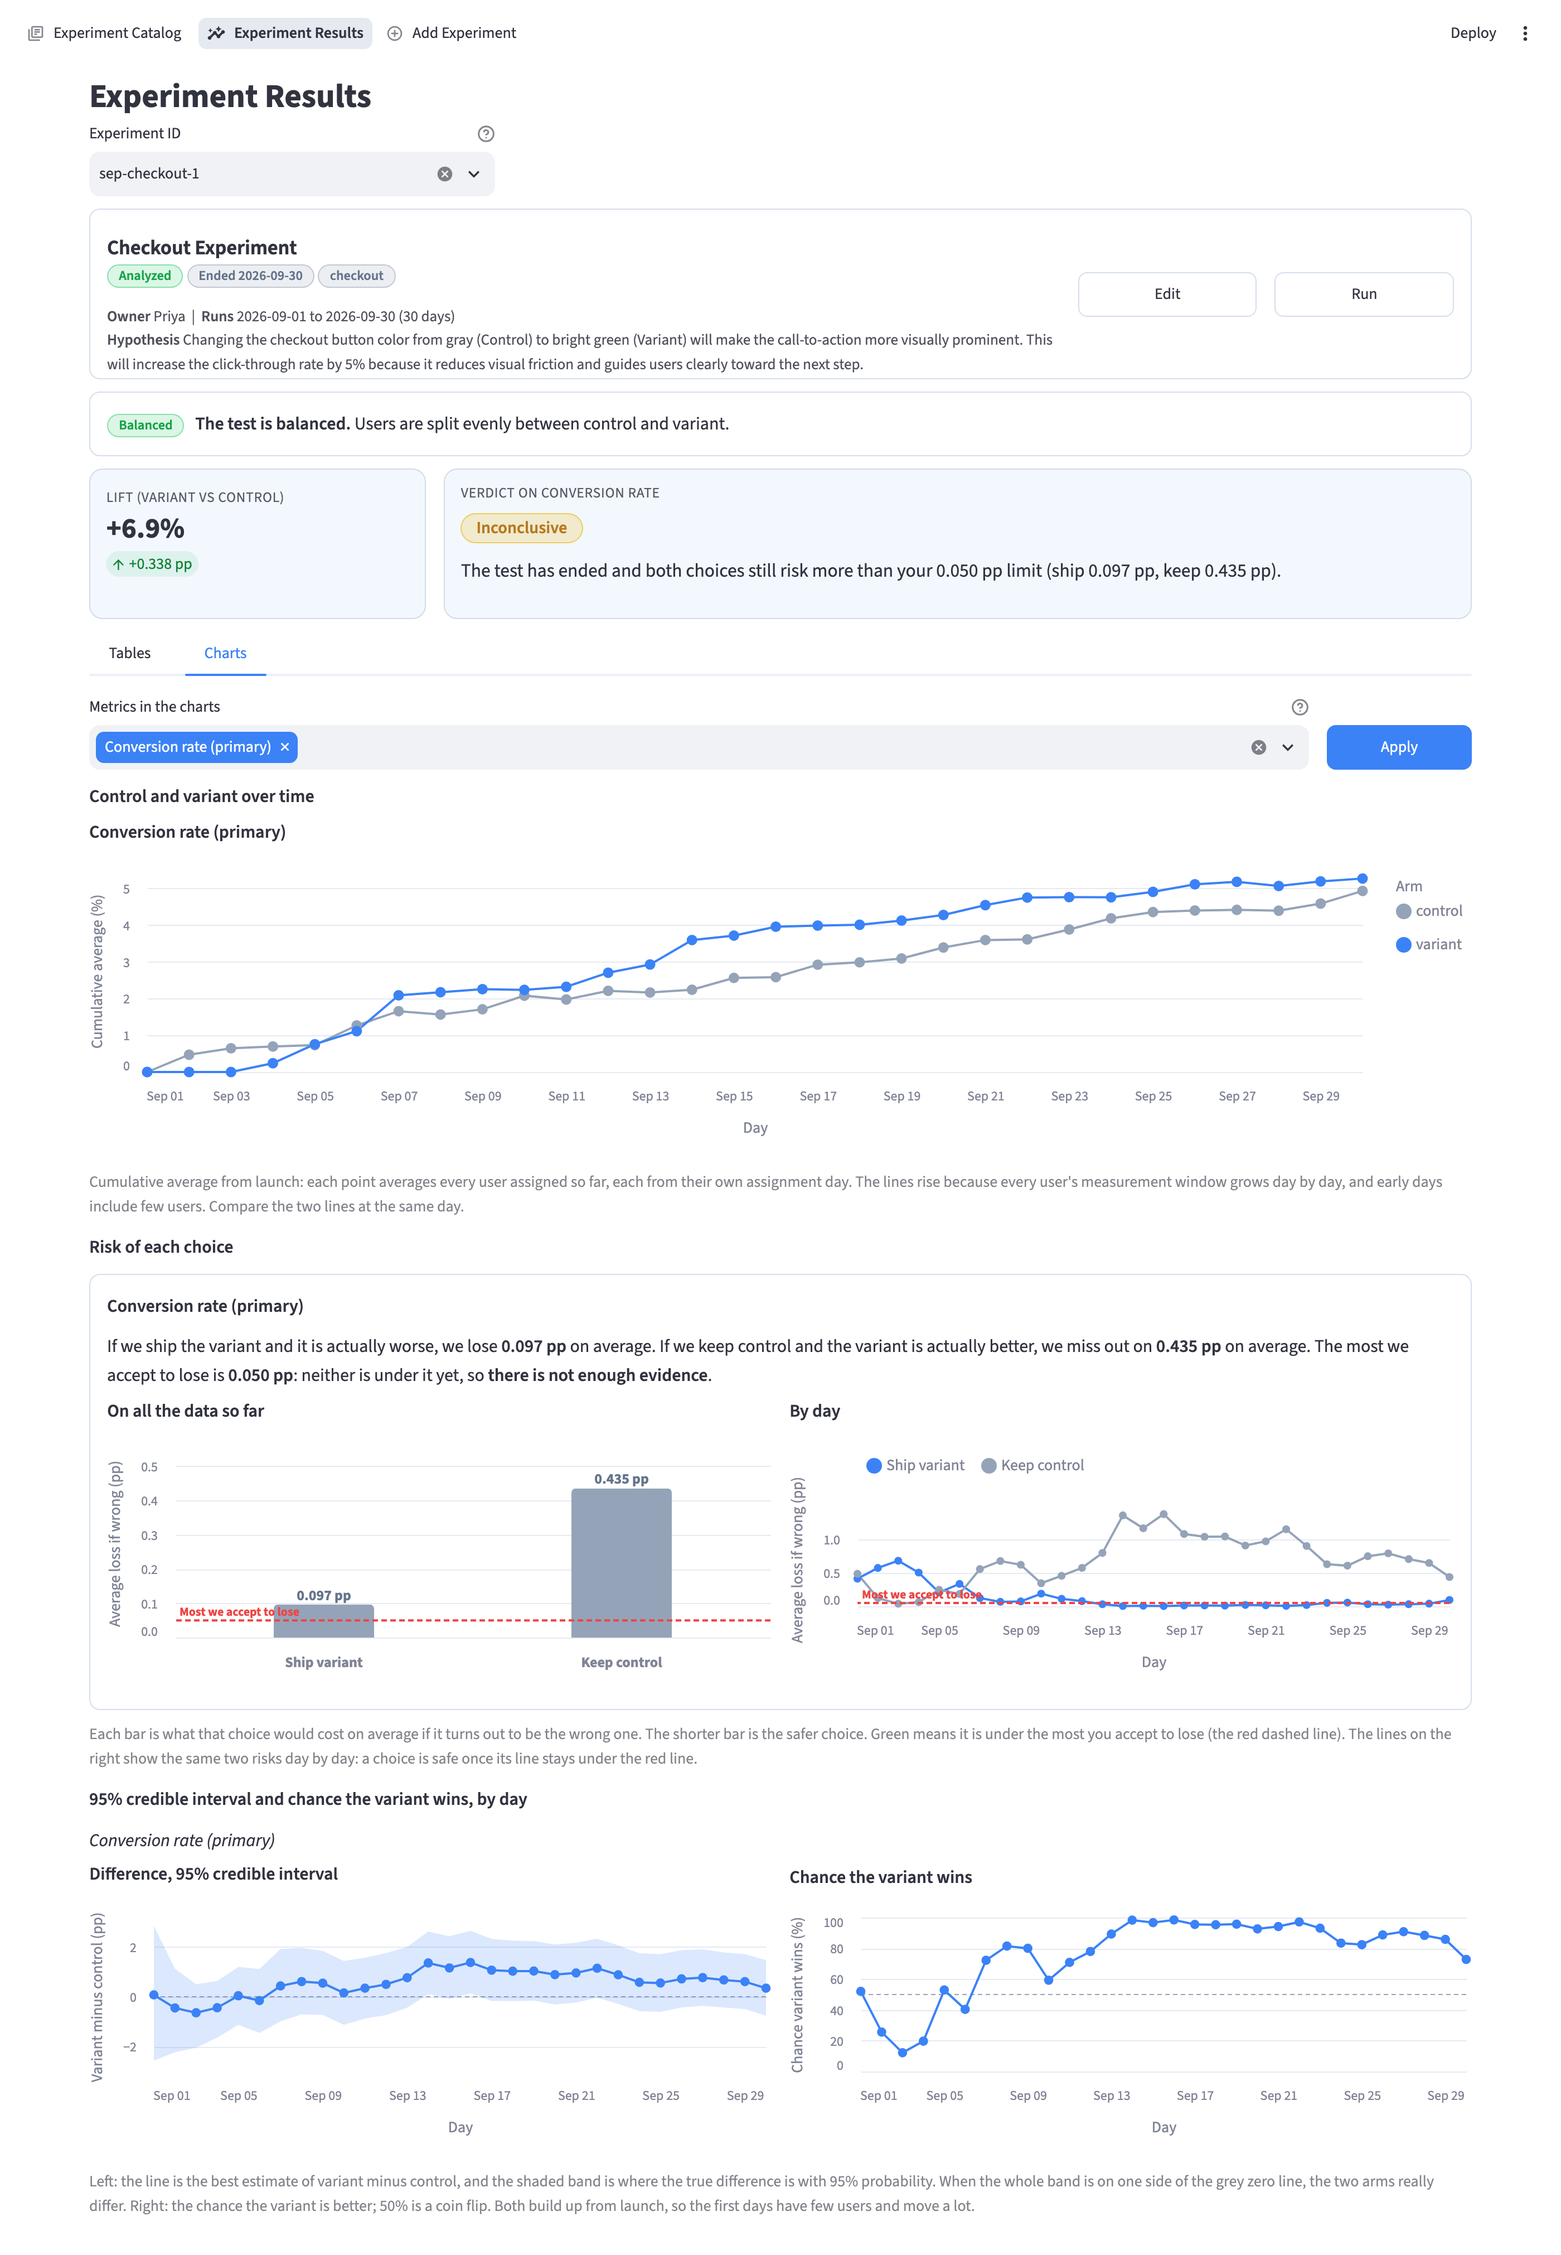
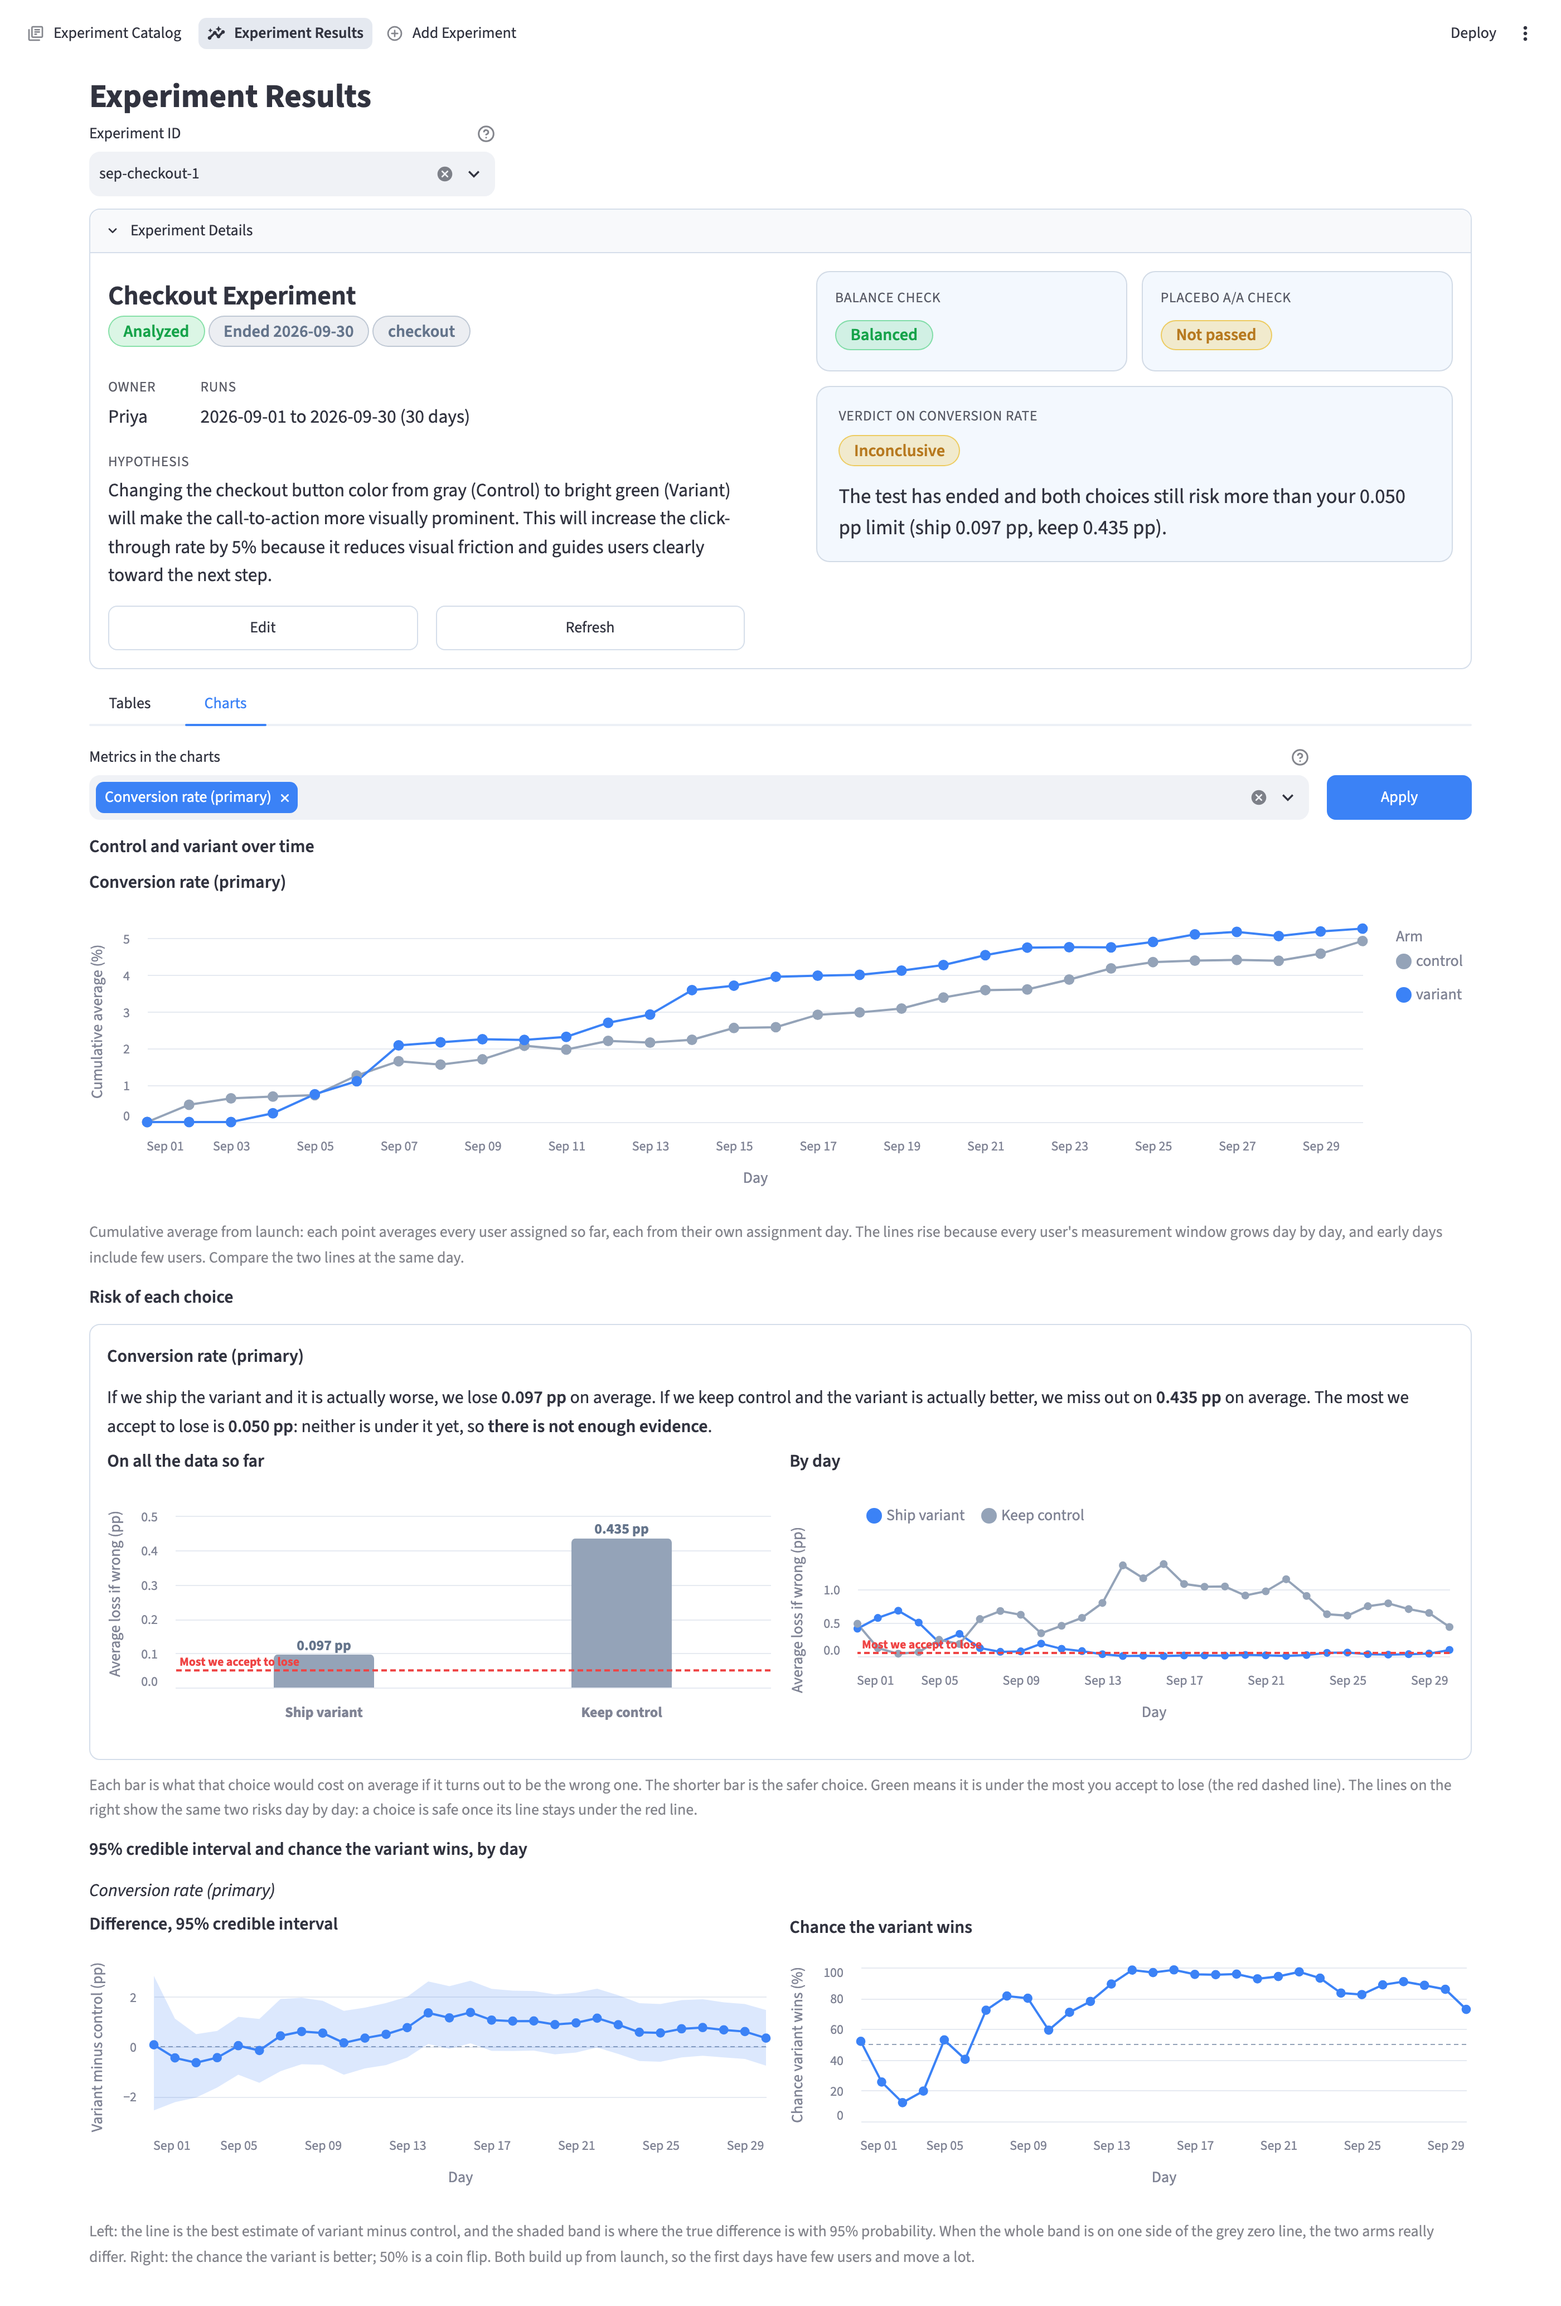
Retake the results screenshots for the new details panel
The four results screenshots are retaken from the running app (light
theme, 1400 px at 2x) so they show the Experiment Details dropdown:
the experiment on the left, and the balance check, the placebo A/A
check and the verdict card on the right. The frequentist example
(demo-banner) was refreshed first so its placebo card is filled in; the
Bayesian example (sep-checkout-1) shows the placebo check flagging a
loose risk threshold.

Update the two README captions that described the old header.

diff --git a/README.md b/README.md
@@ -19,7 +19,7 @@ Synthetic data only. Experiment Catalog (the default page): every experiment wit
 
 ![Experiment Catalog](docs/screenshots/catalog.png)
 
-Experiment Results, frequentist: the balance card on top, the lift and the verdict with a one-line reason, and a table per metric.
+Experiment Results, frequentist: the Experiment Details dropdown (the experiment on the left; the balance check, the placebo A/A check and the verdict with a one-line reason on the right) and a table per metric.
 
 ![Experiment Results tables, frequentist](docs/screenshots/results.png)
 
@@ -27,7 +27,7 @@ The same page, Charts tab: control and variant over time, and the difference wit
 
 ![Experiment Results charts, frequentist](docs/screenshots/results-charts.png)
 
-Experiment Results, Bayesian: the verdict says why in one line, and the table adds the chance the variant wins, the 95% credible interval and the risk of each choice.
+Experiment Results, Bayesian: the same details panel, with the placebo check flagging a loose risk threshold, and a table that adds the chance the variant wins, the 95% credible interval and the risk of each choice.
 
 ![Experiment Results tables, Bayesian](docs/screenshots/results-bayesian.png)
 
